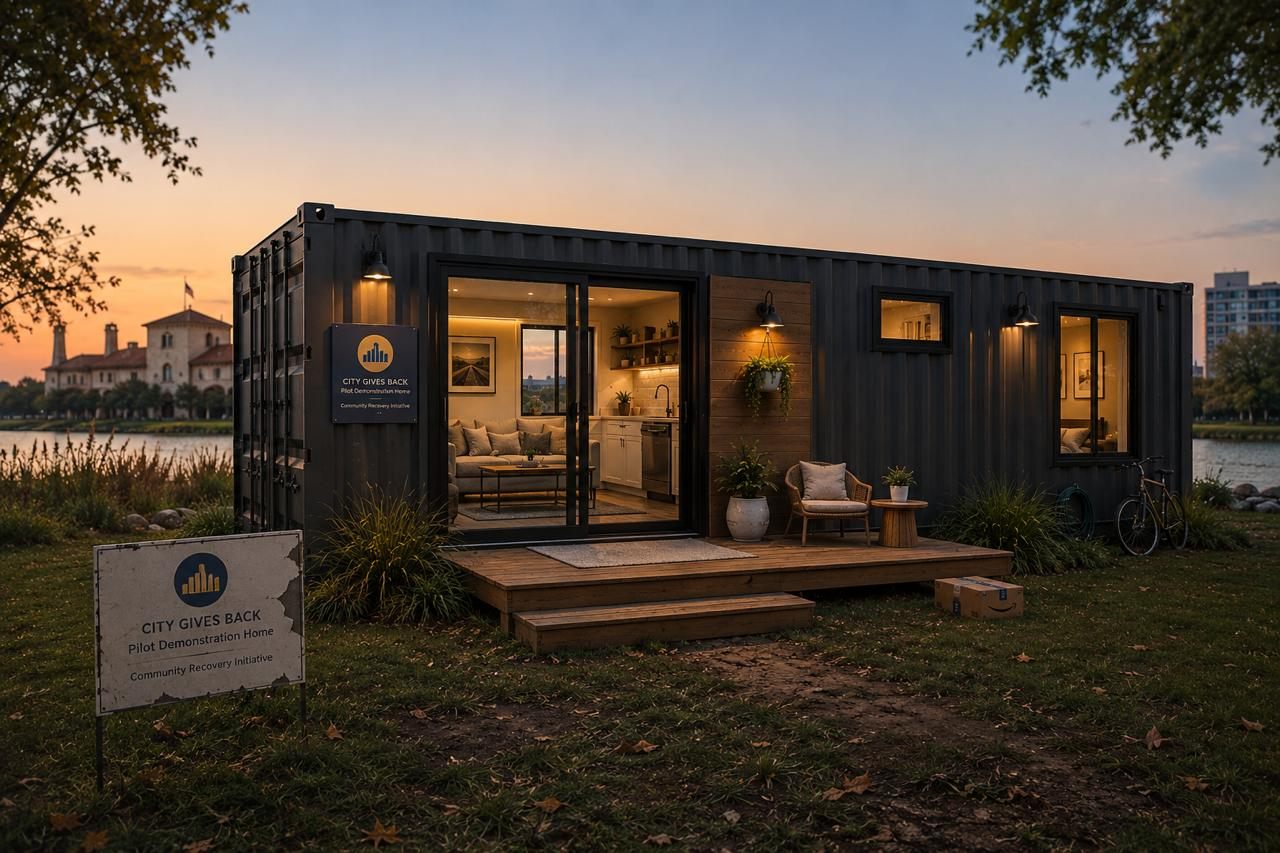
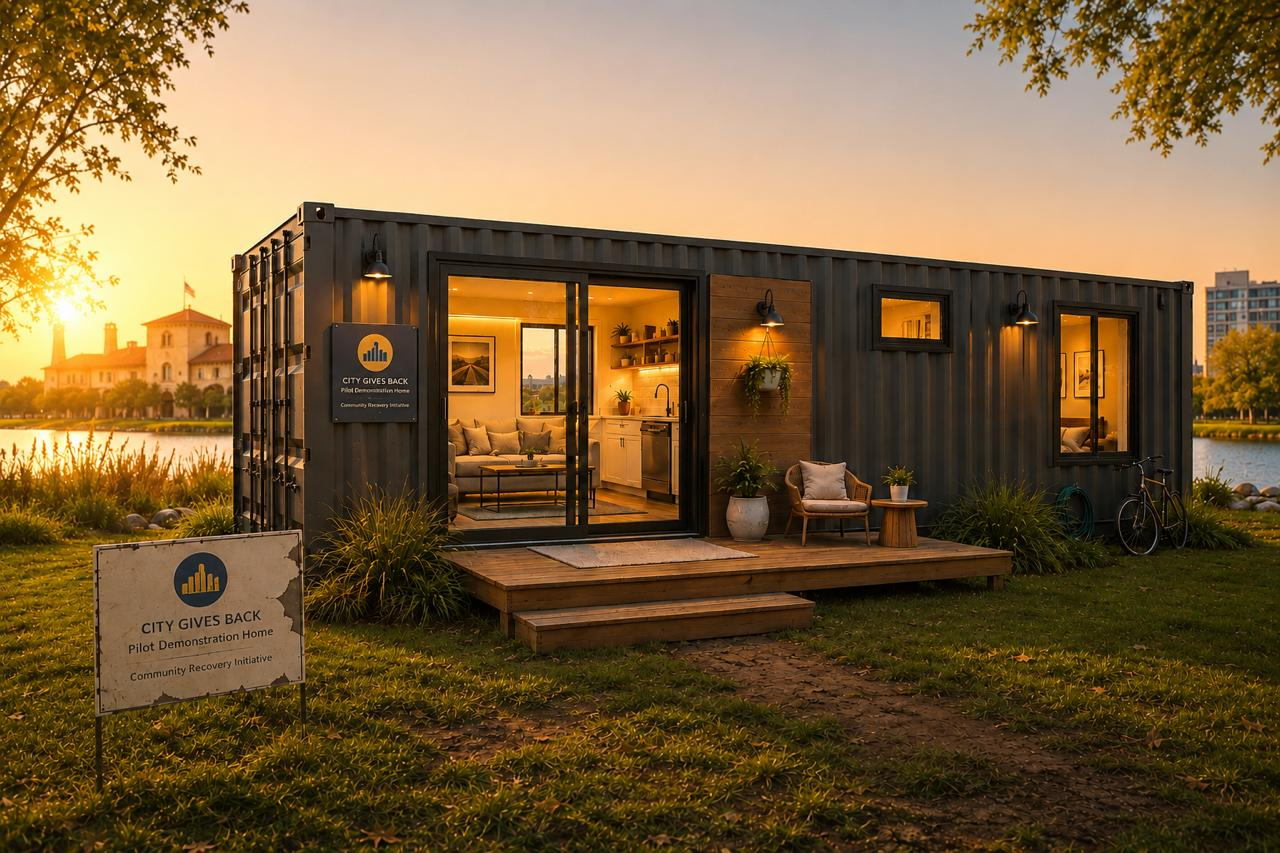
vision page update

diff --git a/index.html b/index.html
@@ -476,48 +476,48 @@
 
 
   /* ---------- VISION ---------- */
-  .vision-hero-row{display:flex;align-items:stretch;min-height:460px;background:#eef0f2;}
+  .vision-hero-row{display:flex;align-items:stretch;min-height:390px;background:#eef0f2;}
   .vision-intro{
-    flex:0 0 320px;
+    flex:0 0 272px;
     display:flex;
     flex-direction:column;
     justify-content:center;
-    padding:40px 40px;
+    padding:34px 34px;
     font-family:Tahoma,Geneva,sans-serif;
   }
   .vision-intro h1{
-    font-size:26px;
+    font-size:22px;
     line-height:1.25;
     color:#002673;
-    margin:0 0 14px;
+    margin:0 0 12px;
     letter-spacing:.2px;
   }
   .vision-intro .vision-sub{
-    font-size:15px;
+    font-size:13px;
     font-style:italic;
     color:#0b3a8a;
     line-height:1.5;
-    margin:0 0 16px;
+    margin:0 0 14px;
   }
   .vision-intro p{
     font-family:'Times New Roman',Times,serif;
-    font-size:15px;
+    font-size:13px;
     line-height:1.6;
     color:#222;
-    margin:0 0 20px;
+    margin:0 0 17px;
   }
-  .vision-divider{width:150px;height:3px;background:#F5DC0F;border:none;margin:0;}
+  .vision-divider{width:128px;height:2.5px;background:#F5DC0F;border:none;margin:0;}
   .vision-hero-img{flex:1;position:relative;overflow:hidden;background:#000;}
   .vision-hero-img img{width:100%;height:100%;object-fit:cover;display:block;}
   .vision-gallery{
     display:grid;
     grid-template-columns:repeat(5, 1fr);
-    gap:6px;
+    gap:5px;
     background:#eef0f2;
-    padding:6px;
+    padding:5px;
   }
   .vision-gallery a{display:block;line-height:0;}
-  .vision-gallery img{width:100%;aspect-ratio:1/1;object-fit:cover;display:block;}
+  .vision-gallery img{width:100%;aspect-ratio:1/0.85;object-fit:cover;display:block;}
 
   /* ---------- CONTACT ---------- */
   .contact-wrap{padding:70px 48px;max-width:1360px;margin:0 auto;}
